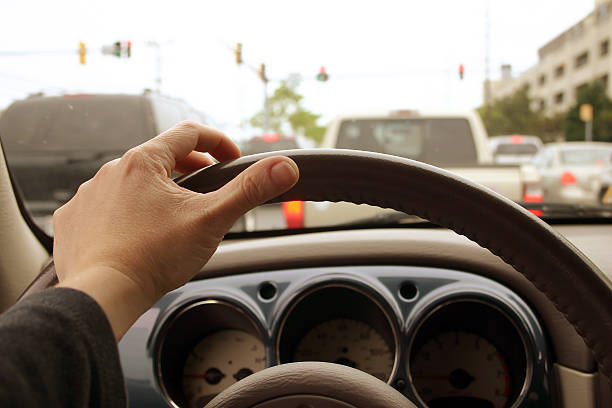
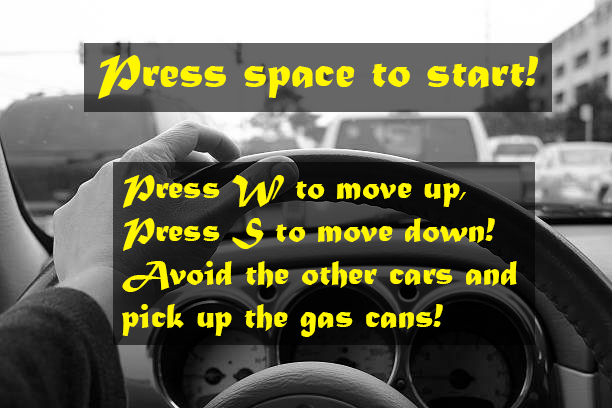
ech

diff --git a/w6/index.html b/w6/index.html
@@ -1,16 +1,16 @@
 <!doctype html>
 <html lang="en">
     <head>
-        <title>Week 4 Canvas</title>
+        <title>Week 6 Canvas</title>
         <meta charset="UTF-8">
-        <meta name="author" content="Jay Aguiar">
-        <meta name="Description" content="In class work">
+        <meta name="author" content="Jonathan Monteiro">
+        <meta name="Description" content="Skinning a game">
         <link rel="stylesheet" href="style.css">
     </head>
     <body>
         <div id="main">
             <div id="header">
-                <h1>Week 2</h1>
+                <h1>Week 6</h1>
             </div>
             <!--End of header-->
             <div id="nav">
@@ -21,12 +21,13 @@
             </div>
             <!--End of content-->
             <div id="footer">
-                &copy;2022 Aguiar 
+                &copy;2022 Monteiro
             </div>
             <!--End of footer--> 
           
         </div>
         <img src="images/car.png" alt="car" id="car" class="graphic">
+        <img src="images/vet.png" alt="badCar" id="vet" class="graphic">
         <img src="images/BarContainer.png" alt="Fuel bar container" id="fuelBar" class="graphic">
         <img src="images/FinishLine.png" alt="Finish Line" id="finishLine" class="graphic">
         <img src="images/FuelText.png" alt="Fuel Text Background" id="fuelText" class="graphic">

diff --git a/w6/game.js b/w6/game.js
@@ -59,10 +59,6 @@ var play = menu;
 function menu()
 {
     gameMenu.drawImg();
-    ctx.save();
-        ctx.textAlign = `center`;
-        ctx.fillText(`Press Space to Start`, c.width*.5, c.height*.5)
-    ctx.restore();
 
     roadX = 0;
 
@@ -87,7 +83,7 @@ function menu()
         vet[i].vx = Math.floor(rand(-10,-3));
         vet[i].w = 64;
         vet[i].h = 32;   
-        vet[i].img = document.querySelector(`#car`);
+        vet[i].img = document.querySelector(`#vet`);
     }
     
     //Powerups innitial value;
@@ -141,11 +137,7 @@ function menu()
 function lose()
 {
     gameOver.drawImg();
-    ctx.save();
-        ctx.textAlign = `center`;
-        ctx.fillText(`You Lose!`, c.width*.5, c.height*.5)
-    ctx.restore();
-
+    
      //If the spacebar is pressed use the menu function to run the program
      //Makes sure that space is false as true when the menu starts
      //If you don't do this the program will skip the menu and go straight to the game.
@@ -160,10 +152,6 @@ function lose()
 function win()
 {
     gameWon.drawImg();
-    ctx.save();
-        ctx.textAlign = `center`;
-        ctx.fillText(`You Win!`, c.width*.5, c.height*.5)
-    ctx.restore();
 
      //If the spacebar is pressed use the menu function to run the program
      //Makes sure that space is false as true when the menu starts

diff --git a/w6/style.css b/w6/style.css
@@ -15,12 +15,11 @@ body{
 }
 #main{
     background-color:#ffff00;
-    color:rgb(255, 137, 2);
     width:950px;
     padding:20px;
 }
 #header{
-    background-color:aqua;
+    background-color:grey;
 }
 #nav{
     background-color:lime;
@@ -28,34 +27,13 @@ body{
     justify-content:center;
 }
 #content{
-    background-color:blue;
+    background-color:yellow;
 }
 
 #footer{
-    background-color:aqua;
+    background-color:grey;
 }
 
-a{
-    display:block;
-    margin-left:10px;
-    margin-right:10px;
-    background-color:bisque;
-    padding:10px;
-    border-radius:10px;
-}
-a:link{
-    color:black;
-}
-a:visited{
-    color:black;
-}
-a:hover{
-    color:cornflowerblue;
-    background-color:brown;
-}
-a:active{
-    color:cornflowerblue;
-}
 
 h1{
     color:black;
